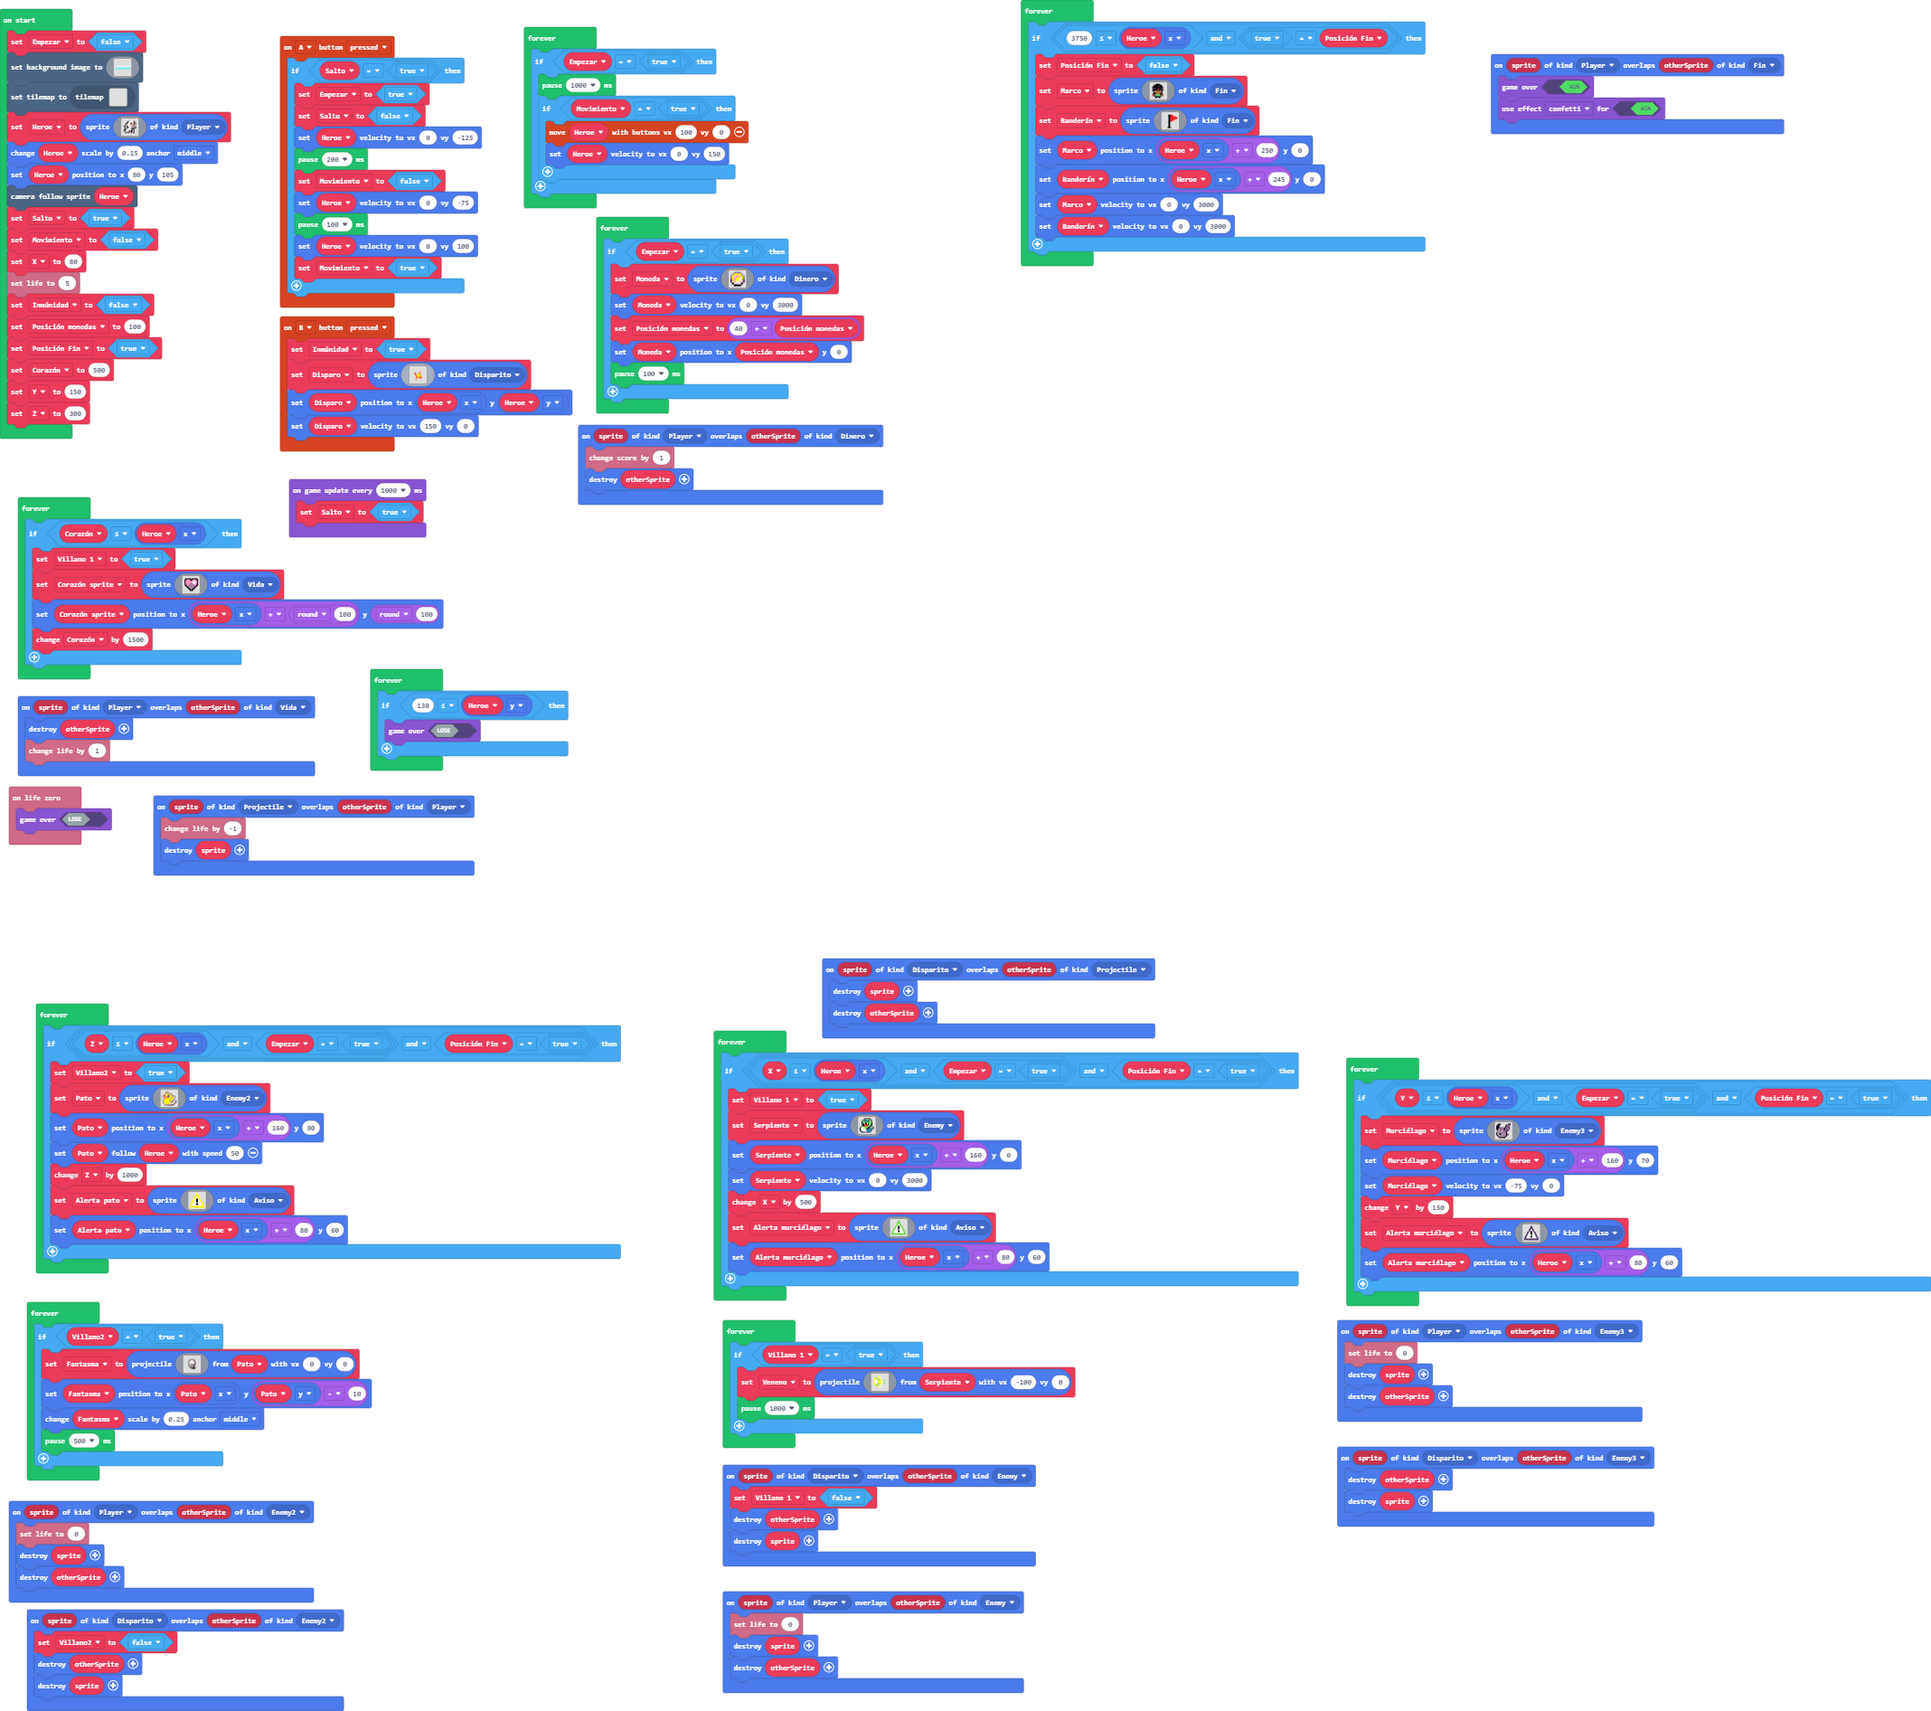
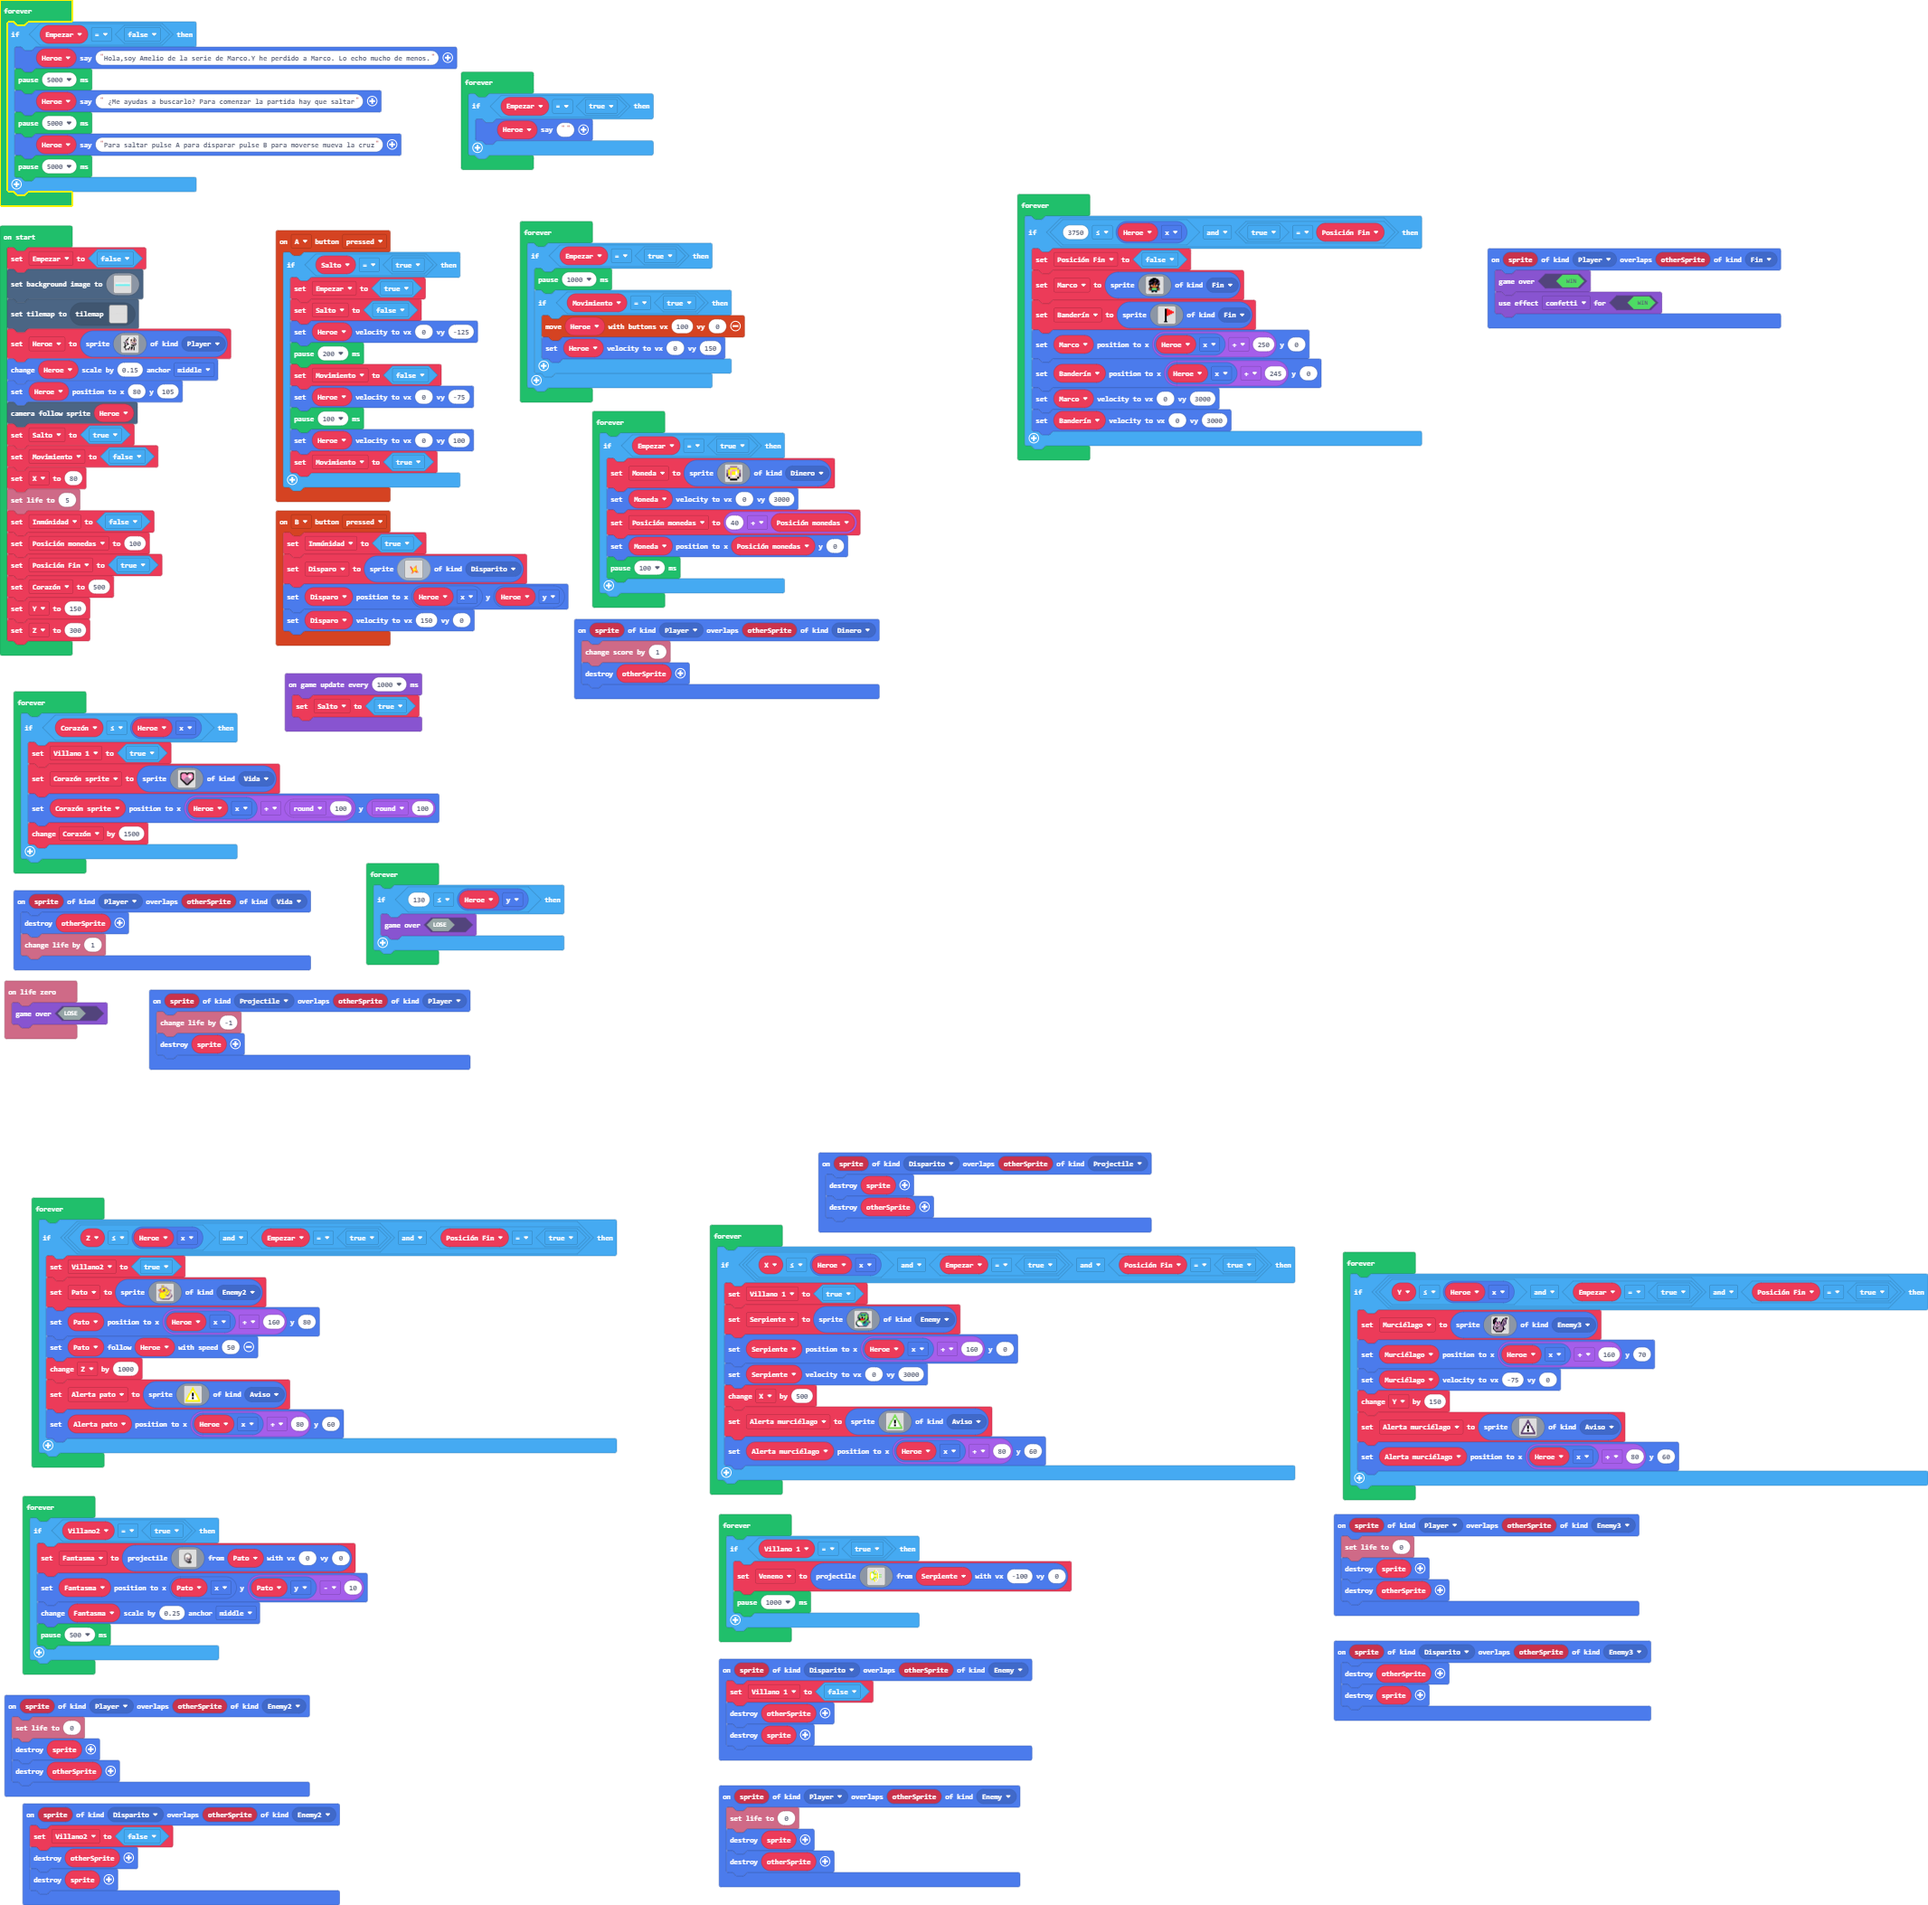
Conversación de Amelio

diff --git a/main.ts b/main.ts
@@ -274,6 +274,21 @@ game.onUpdateInterval(1000, function () {
     Salto = true
 })
 forever(function () {
+    if (Empezar == false) {
+        Heroe.sayText("Hola,soy Amelio de la serie de Marco.Y he perdido a Marco. Lo echo mucho de menos.")
+        pause(5000)
+        Heroe.sayText(" ¿Me ayudas a buscarlo? Para comenzar la partida hay que saltar")
+        pause(5000)
+        Heroe.sayText("Para saltar pulse A para disparar pulse B para moverse mueva la cruz")
+        pause(5000)
+    }
+})
+forever(function () {
+    if (Empezar == true) {
+        Heroe.sayText("")
+    }
+})
+forever(function () {
     if (3750 <= Heroe.x && true == Posición_Fin) {
         Posición_Fin = false
         Marco = sprites.create(img`
